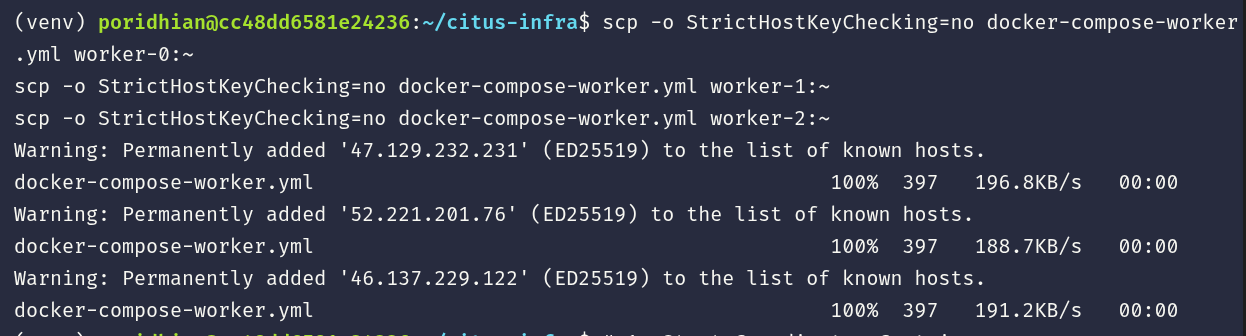
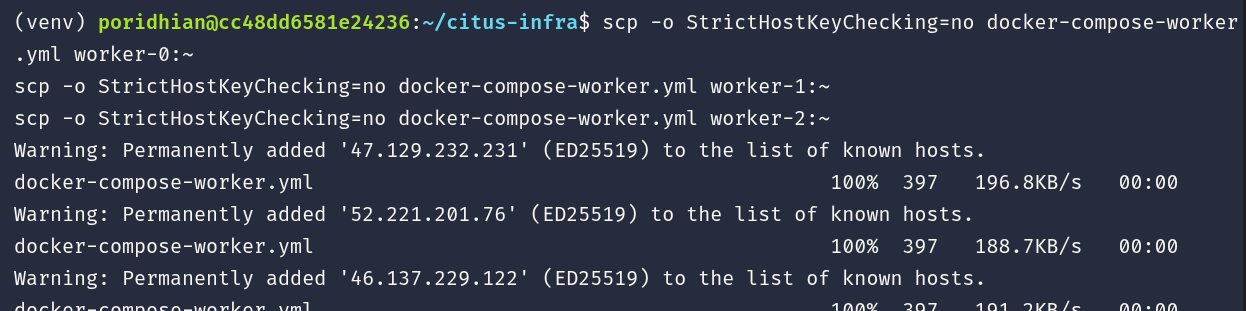
docs: align Lab 44 and Lab 45 commands, outputs, and cropped images with terminal screenshots

diff --git a/Module 74: Sharding with Citus and Flask/Lab 45: Flask–Citus Integration/readme.md b/Module 74: Sharding with Citus and Flask/Lab 45: Flask–Citus Integration/readme.md
@@ -33,7 +33,7 @@ Citus is fully compatible with standard PostgreSQL drivers like `psycopg2`. This
 
 ## Step 1: Project Setup and Dependencies Installation
 
-Open **Terminal 1** and run the following commands to create the directory, define `requirements.txt`, create an isolated Python virtual environment, and install all required packages:
+Open **Terminal 1** and run the following commands to create the directory and define `requirements.txt`:
 
 ```bash
 # 1. Create project directory
@@ -46,7 +46,15 @@ Flask==3.0.0
 psycopg2-binary==2.9.9
 Flask-SQLAlchemy==3.1.1
 EOF
+```
 
+<p align="center">
+  <img src="./images/01_create_dir_and_requirements.png" alt="Creating project directory and requirements.txt">
+</p>
+
+Create an isolated Python virtual environment and install all required packages:
+
+```bash
 # 3. Create and activate new virtual environment
 python3 -m venv venv
 source venv/bin/activate
@@ -56,7 +64,7 @@ pip install -r requirements.txt
 ```
 
 <p align="center">
-  <img src="./images/01_requirements_and_venv.png" alt="Creating requirements, venv, and installing dependencies">
+  <img src="./images/02_venv_and_install.png" alt="Creating virtual environment and installing dependencies">
 </p>
 
 ---
@@ -137,7 +145,7 @@ EOF
 ```
 
 <p align="center">
-  <img src="./images/02_write_app_py.png" alt="Writing app.py">
+  <img src="./images/03_write_app_py.png" alt="Writing app.py">
 </p>
 
 Verify that `app.py` was created completely:
@@ -147,43 +155,48 @@ tail -n 5 app.py
 ```
 
 <p align="center">
-  <img src="./images/03_tail_app_py.png" alt="Verifying app.py with tail">
+  <img src="./images/04_tail_app_py.png" alt="Verifying app.py with tail">
 </p>
 
 ---
 
 ## Step 4: Start the Flask API with Citus Connection
 
-The Citus Coordinator EC2 instance runs at private IP `10.0.1.10` inside an AWS VPC. First test whether `10.0.1.10:5432` is directly reachable:
+The Citus Coordinator EC2 instance runs at private IP `10.0.1.10` inside an AWS VPC. First, test whether `10.0.1.10:5432` is directly reachable:
 
 ```bash
 python3 -c "import socket; s = socket.socket(); s.settimeout(2); print('SUCCESS' if s.connect_ex(('10.0.1.10', 5432)) == 0 else 'FAILED')"
 ```
 
-Because external client machines cannot directly route to AWS VPC private IPs, the test returns `FAILED`. To connect seamlessly and securely, establish a background SSH tunnel to `controller-0`, clean up port 5000, set `COORDINATOR_IP="127.0.0.1"`, and launch the Flask application:
+**Expected Output:**
+```text
+FAILED
+```
+
+<p align="center">
+  <img src="./images/05_connectivity_test.png" alt="Direct connectivity test returning FAILED">
+</p>
+
+Because external client machines cannot directly route to AWS VPC private IPs, the test returns `FAILED`. To connect seamlessly and securely, establish a background SSH tunnel to `controller-0` forwarding port 5432, clean up port 5000, set `COORDINATOR_IP="127.0.0.1"`, and launch the Flask application:
 
 ```bash
-# 1. Test direct connectivity (returns FAILED)
-python3 -c "import socket; s = socket.socket(); s.settimeout(2); print('SUCCESS' if s.connect_ex(('10.0.1.10', 5432)) == 0 else 'FAILED')"
-
-# 2. Establish background SSH tunnel forwarding port 5432 to coordinator
+# 1. Establish background SSH tunnel forwarding port 5432 to coordinator
 ssh -f -N -L 5432:localhost:5432 controller-0
 
-# 3. Clean up port 5000
+# 2. Clean up port 5000
 sudo fuser -k 5000/tcp 2>/dev/null || true
 
-# 4. Set localhost coordinator IP and start Flask app
+# 3. Set localhost coordinator IP and start Flask app
 export COORDINATOR_IP="127.0.0.1"
 python3 app.py
 ```
 
 <p align="center">
-  <img src="./images/04_start_flask_app.png" alt="Starting Flask App connected to Citus Cluster">
+  <img src="./images/06_start_flask_app.png" alt="Starting Flask App connected to Citus Cluster via SSH tunnel">
 </p>
 
 **Expected Output:**
 ```text
-FAILED
 * Serving Flask app 'app'
 * Debug mode: off
 WARNING: This is a development server. Do not use it in a production deployment. Use a production WSGI server instead.
@@ -215,6 +228,10 @@ curl -X POST http://localhost:5000/events \
 {"message":"Event created","tenant_id":101}
 ```
 
+<p align="center">
+  <img src="./images/07_curl_post_event.png" alt="Verifying POST event endpoint">
+</p>
+
 ### Scenario 2: Retrieve events for a specific tenant (GET Request)
 
 ```bash
@@ -227,7 +244,7 @@ curl -X GET http://localhost:5000/events/101
 ```
 
 <p align="center">
-  <img src="./images/05_api_verification_curl.png" alt="Verifying Flask Endpoints with curl in Terminal 2">
+  <img src="./images/08_curl_get_event.png" alt="Verifying GET event endpoint">
 </p>
 
 ---

diff --git a/Module 74: Sharding with Citus and Flask/Lab 44: Citus Cluster Provisioning/readme.md b/Module 74: Sharding with Citus and Flask/Lab 44: Citus Cluster Provisioning/readme.md
@@ -87,9 +87,9 @@ aws sts get-caller-identity
 **Expected Output:**
 ```json
 {
-    "UserId": "AIDAWQHCAM...",
+    "UserId": "AIDAWQHCAMGPFM230Z7HW",
     "Account": "447150580126",
-    "Arn": "arn:aws:iam::447150580126:user/..."
+    "Arn": "arn:aws:iam::447150580126:user/esey-poridhi"
 }
 ```
 
@@ -159,6 +159,16 @@ pulumi login
   <img src="./images/09_pulumi_login_terminal.png" alt="Pulumi Login Terminal Output">
 </p>
 
+**Expected Output:**
+```text
+Logging in using access token from PULUMI_ACCESS_TOKEN
+Logged in to pulumi.com as iftakharalamshihad-gmail-com (https://app.pulumi.com/iftakharalamshihad-gmail-com)
+
+You don't have any stacks yet. What would you like to do? Skip for now
+
+To get started, run `pulumi new` in an empty directory
+```
+
 ---
 
 ### Step 4: Initialize the Pulumi Project
@@ -191,20 +201,18 @@ Your new project is ready to go!
 
 ### Step 5: Create AWS SSH Key Pair
 
-Create an SSH key pair named `citus-key` so that we can connect to the coordinator and workers:
+Create an SSH key pair named `citus-key` so that we can connect to the coordinator and workers (ensure the `~/.ssh` directory exists first with `mkdir -p ~/.ssh`):
 
 ```bash
-mkdir -p ~/.ssh
-
-# Clean up any previous duplicate keys
+# 1. Remove the old locked file and delete AWS key
 rm -f ~/.ssh/citus-key.pem
 aws ec2 delete-key-pair --key-name citus-key 2>/dev/null || true
 
-# Create the key pair and lock permissions
+# 2. Generate the new key pair and secure it
 aws ec2 create-key-pair --key-name citus-key --output text --query 'KeyMaterial' > ~/.ssh/citus-key.pem
 chmod 400 ~/.ssh/citus-key.pem
 
-# Verify file existence and permissions
+# 3. Verify key file exists
 ls -l ~/.ssh/citus-key.pem
 ```
 
@@ -214,7 +222,10 @@ ls -l ~/.ssh/citus-key.pem
 
 **Expected Output:**
 ```text
--r-------- 1 poridhian poridhian 1679 ... /home/poridhian/.ssh/citus-key.pem
+{
+    "Return": true
+}
+-r-------- 1 poridhian poridhian 1679 Sep  8 07:59 /home/poridhian/.ssh/citus-key.pem
 ```
 
 ---
@@ -354,6 +365,29 @@ cat ~/.ssh/config
   <img src="./images/18_ssh_config.png" alt="Inspecting SSH Config">
 </p>
 
+**Expected Output:**
+```text
+Host controller-0
+    HostName 47.129.250.198
+    User ubuntu
+    IdentityFile ~/.ssh/citus-key.pem
+
+Host worker-0
+    HostName 47.129.232.231
+    User ubuntu
+    IdentityFile ~/.ssh/citus-key.pem
+
+Host worker-1
+    HostName 52.221.201.76
+    User ubuntu
+    IdentityFile ~/.ssh/citus-key.pem
+
+Host worker-2
+    HostName 46.137.229.122
+    User ubuntu
+    IdentityFile ~/.ssh/citus-key.pem
+```
+
 ---
 
 ### Step 8: Create Docker Compose Files for Citus
@@ -365,6 +399,7 @@ Create two configurations: one for the coordinator and one for the workers.
 ```bash
 cd ~/citus-infra
 
+# 1. Coordinator Docker Compose
 cat << 'EOF' > docker-compose-coordinator.yml
 version: '3.8'
 services:
@@ -395,6 +430,8 @@ EOF
 #### 2. Worker Compose File:
 
 ```bash
+cd ~/citus-infra
+
 cat << 'EOF' > docker-compose-worker.yml
 version: '3.8'
 services:
@@ -425,12 +462,24 @@ EOF
 
 ### Step 9: Transfer Compose Files to EC2 Nodes
 
-Copy the compose files to the coordinator and the 3 worker nodes:
+#### 1. Transfer Coordinator Compose File:
+
+Copy `docker-compose-coordinator.yml` to the Citus coordinator node (`controller-0`):
 
 ```bash
 # Copy to Coordinator
 scp -o StrictHostKeyChecking=no docker-compose-coordinator.yml controller-0:~
+```
 
+<p align="center">
+  <img src="./images/21a_scp_coordinator.png" alt="SCP Transferring Coordinator Compose File">
+</p>
+
+#### 2. Transfer Worker Compose Files:
+
+Copy `docker-compose-worker.yml` to the 3 worker nodes (`worker-0`, `worker-1`, `worker-2`):
+
+```bash
 # Copy to Workers
 scp -o StrictHostKeyChecking=no docker-compose-worker.yml worker-0:~
 scp -o StrictHostKeyChecking=no docker-compose-worker.yml worker-1:~
@@ -501,6 +550,21 @@ The coordinator verifies and displays all 3 active workers:
 
 **Expected Output:**
 ```text
+ citus_add_node 
+----------------
+              1
+(1 row)
+
+ citus_add_node 
+----------------
+              2
+(1 row)
+
+ citus_add_node 
+----------------
+              3
+(1 row)
+
  node_name | node_port 
 -----------+-----------
  10.0.1.22 |      5432 
